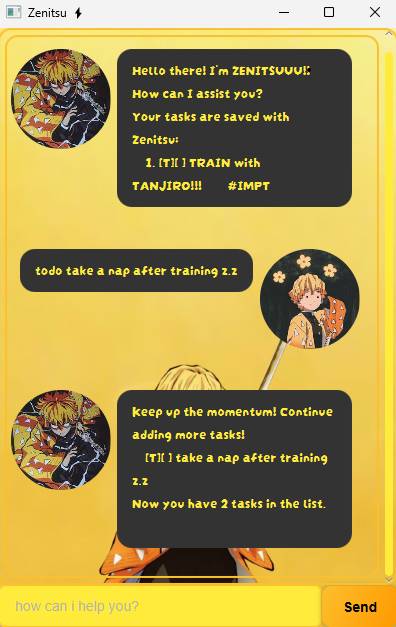
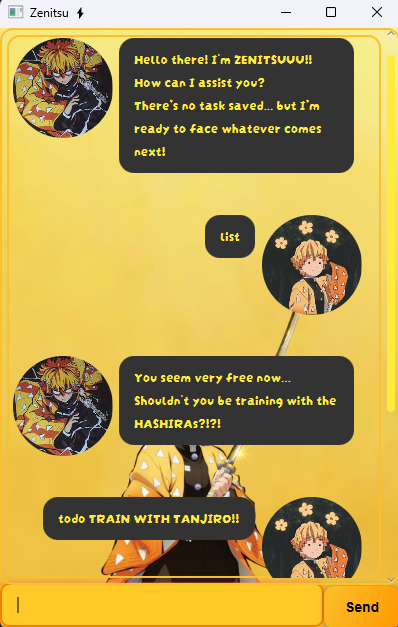
Add more personalities to bot

diff --git a/src/main/java/engulfy/ui/Ui.java b/src/main/java/engulfy/ui/Ui.java
@@ -13,7 +13,7 @@ import engulfy.task.TaskList;
 public class Ui {
     private static final String WELCOME_MSG = "Hello there! I'm ZENITSUUU!!\nHow can I assist you?";
     private static final String GOODBYE_MSG = "Awww, will Zenitsu see you again soon?\n"
-            + "DON'T GIVE UP!!!";
+            + "USE YOUR BREATH! DON'T GIVE UP!!!";
     private static final String LOAD_ERROR_MSG = "Zenitsu can't seem to load the file ;-; let's start again.";
 
     /**
@@ -24,7 +24,7 @@ public class Ui {
      */
     public String showWelcome(TaskList tasks) {
         assert tasks != null : "Task list cannot be null";
-        String taskMessage = tasks.isEmpty() ? "No saved tasks yet!" : showTaskList(tasks.getAllTasks());
+        String taskMessage = tasks.isEmpty() ? "There’s no task saved... but I’m ready to face whatever comes next!" : showTaskList(tasks.getAllTasks());
         return (WELCOME_MSG + "\n" + taskMessage).trim();
     }
 
@@ -45,7 +45,7 @@ public class Ui {
      */
     public String showTaskList(List<Task> tasks) {
         assert tasks != null : "Task list cannot be null";
-        StringBuilder sb = new StringBuilder("Your tasks are saved with Zenitsu:\n");
+        StringBuilder sb = new StringBuilder("I got them saved, so I will never forget:\n");
         for (int i = 0; i < tasks.size(); i++) {
             sb.append("    ").append(i + 1).append(". ").append(tasks.get(i)).append("\n");
         }
@@ -82,7 +82,7 @@ public class Ui {
     public String showTaskAdded(Task task, int totalTasks) {
         assert task != null : "Task cannot be null";
         assert totalTasks >= 0 : "Total tasks cannot be negative";
-        return "Keep up the momentum! Continue adding more tasks!\n"
+        return "I’ll do my best to stay organized—this task list is getting longer, but I can handle it!\n"
                 + "    " + task + "\n"
                 + String.format("Now you have %d %s in the list.%n", totalTasks, totalTasks == 1 ? "task" : "tasks");
     }
@@ -97,7 +97,7 @@ public class Ui {
     public String showTaskRemoved(Task task, int totalTasks) {
         assert task != null : "Task cannot be null";
         assert totalTasks >= 0 : "Total tasks cannot be negative";
-        return "LET ZENITSU SLASH THAT TASK AWAY FOR YOU :D\n"
+        return "Thunder Breathing, First Form: Thunderclap and Flash!\nLET ZENITSU SLASH THAT TASK AWAY FOR YOU :D\n"
                 + "    " + task + "\n"
                 + String.format("Now you have %d %s in the list.%n", totalTasks, totalTasks == 1 ? "task" : "tasks");
     }
@@ -110,7 +110,7 @@ public class Ui {
      */
     public String showTaskMarked(Task task) {
         assert task != null : "Task cannot be null";
-        return "NICEE! Keep up the good work!\n"
+        return "If You Master One, That’s Cause For Celebration!\n"
                 + "    " + task;
     }
 
@@ -122,7 +122,7 @@ public class Ui {
      */
     public String showTaskUnmarked(Task task) {
         assert task != null : "Task cannot be null";
-        return "DON'T GIVE UP! Zenitsu believes in you!\n"
+        return "DON'T GIVE UP! USE YOUR BREATH!! Zenitsu believes in you!\n"
                 + "    " + task;
     }
 }

diff --git a/src/test/java/engulfy/command/UnmarkCommandTest.java b/src/test/java/engulfy/command/UnmarkCommandTest.java
@@ -106,7 +106,7 @@ class UnmarkCommandTest {
     @Test
     void testConstructorInvalidInput() {
         EngulfyError exception = assertThrows(EngulfyError.class, () -> new UnmarkCommand("abc"));
-        assertEquals("This does not seem like a number to Engulfy :/", exception.getMessage());
+        assertEquals("This does not seem like a number to Zenitsu :/", exception.getMessage());
     }
 
     /**
@@ -123,7 +123,7 @@ class UnmarkCommandTest {
         Task unmarkedTask = taskList.getAllTasks().get(1);
         assertFalse(unmarkedTask.isDone());
 
-        String expectedOutput = "Aww, it's ok! You got this!\n"
+        String expectedOutput = "DON'T GIVE UP! USE YOUR BREATH!! Zenitsu believes in you!\n"
                 + "    " + unmarkedTask;
         String actualOutput = outContent.toString();
         assertEquals(expectedOutput, actualOutput);

diff --git a/src/test/java/engulfy/command/MarkCommandTest.java b/src/test/java/engulfy/command/MarkCommandTest.java
@@ -104,7 +104,7 @@ class MarkCommandTest {
     @Test
     void testConstructorInvalidInput() {
         EngulfyError exception = assertThrows(EngulfyError.class, () -> new MarkCommand("abc"));
-        assertEquals("This does not seem like a number to Engulfy :/", exception.getMessage());
+        assertEquals("This does not seem like a number to Zenitsu :/", exception.getMessage());
     }
 
     /**
@@ -121,7 +121,7 @@ class MarkCommandTest {
         Task markedTask = taskList.getAllTasks().get(1);
         assertTrue(markedTask.isDone());
 
-        String expectedOutput = "NICEE! Keep up the good work!\n"
+        String expectedOutput = "If You Master One, That’s Cause For Celebration!\n"
                 + "    " + markedTask;
 
         String actualOutput = outContent.toString();

diff --git a/src/main/java/engulfy/command/ListCommand.java b/src/main/java/engulfy/command/ListCommand.java
@@ -9,7 +9,7 @@ import engulfy.ui.Ui;
  * This command shows the tasks in the task list, or a message indicating that there are no tasks.
  */
 public class ListCommand implements Command {
-    private static final String NO_TASK_MSG = "You seem very free now... Start doing something productive!";
+    private static final String NO_TASK_MSG = "You seem very free now... Shouldn't you be training with the HASHIRAs?!?!";
 
     /**
      * Executes the list command by displaying all tasks in the task list.

diff --git a/src/main/java/engulfy/command/FindCommand.java b/src/main/java/engulfy/command/FindCommand.java
@@ -49,7 +49,7 @@ public class FindCommand implements Command {
             for (int i = 0; i < matchingTasks.size(); i++) {
                 output.append(i + 1).append(".").append(matchingTasks.get(i)).append("\n");
             }
-            return ("Zenitsu found you!!\n\n" + output).trim();
+            return ("To Find You, I Just Listened For The Sound Of Complete And Utter Betrayal And Followed That!!\n\n" + output).trim();
         }
     }
 

diff --git a/src/main/java/engulfy/task/Task.java b/src/main/java/engulfy/task/Task.java
@@ -90,6 +90,6 @@ public class Task {
      */
     @Override
     public String toString() {
-        return getStatusIcon() + " " + description + "    " + getTagString();
+        return getStatusIcon() + " " + description + " " + getTagString();
     }
 }

diff --git a/README.md b/README.md
@@ -1,26 +1,69 @@
-# Duke project template
+# Engulfy User Guide
 
-This is a project template for a greenfield Java project. It's named after the Java mascot _Duke_. Given below are instructions on how to use it.
+## ⚡ Introduction ⚡
+Welcome to **Engulfy**, your personal task manager chatbot with a theme revolving around Zenitsu!
 
-## Setting up in Intellij
+![Example Image](/docs/Ui.png)
 
-Prerequisites: JDK 17, update Intellij to the most recent version.
+## 🚀 Installation
+1. **Ensure Java 17 or later** is installed on your system.
+2. **Download** the latest Engulfy JAR file from the [release page](https://github.com/Engulfy/ip/releases).
+3. **Open a terminal** and navigate to the folder containing the JAR file.
+4. Run the following command to start Engulfy:
+   ```sh
+   java -jar Engulfy.jar
 
-1. Open Intellij (if you are not in the welcome screen, click `File` > `Close Project` to close the existing project first)
-1. Open the project into Intellij as follows:
-   1. Click `Open`.
-   1. Select the project directory, and click `OK`.
-   1. If there are any further prompts, accept the defaults.
-1. Configure the project to use **JDK 17** (not other versions) as explained in [here](https://www.jetbrains.com/help/idea/sdk.html#set-up-jdk).<br>
-   In the same dialog, set the **Project language level** field to the `SDK default` option.
-1. After that, locate the `src/main/java/Duke.java` file, right-click it, and choose `Run Duke.main()` (if the code editor is showing compile errors, try restarting the IDE). If the setup is correct, you should see something like the below as the output:
-   ```
-   Hello from
-    ____        _        
-   |  _ \ _   _| | _____ 
-   | | | | | | | |/ / _ \
-   | |_| | |_| |   <  __/
-   |____/ \__,_|_|\_\___|
-   ```
+## 🛠 Features
+### ✅ Add Tasks
+Engulfy supports three types of tasks:
+- **ToDo**: `todo TASK_DESCRIPTION`
+- **Deadline**: `deadline TASK_DESCRIPTION /by DATE_TIME`
+- **Event**: `event TASK_DESCRIPTION /from DATE_TIME /to DATE_TIME`
+- **To Note**:
+   - `Ensure DATE_TIME is in format of "M/d/yyyy HHmm" (default), "MMM dd yyyy, h:mm a", "d/M/yyyy HHmm" or "dd MMM yyyy, h:mm a"`
 
-**Warning:** Keep the `src\main\java` folder as the root folder for Java files (i.e., don't rename those folders or move Java files to another folder outside of this folder path), as this is the default location some tools (e.g., Gradle) expect to find Java files.
+📌 **Example:**
+```sh
+todo SWORD TRAINING!
+deadline MASTER LIGHTNING BREATHING! /by 02/20/2025 2359
+event HASHIRA TRAINING /from 01/03/2018 1400 /to 01/03/2018 1600
+```
+
+### 📋 List Tasks
+View all added tasks:
+```sh
+list
+```
+
+### ✍ Mark/Unmark Tasks
+Mark a task as completed or incomplete:
+- `To Note: Ensure TASK_NUMBER is in range of saved tasks`
+```sh
+mark TASK_NUMBER
+unmark TASK_NUMBER
+```
+
+### ❌ Delete Tasks
+Remove a specific task:
+- `To Note: Ensure TASK_NUMBER is in range of saved tasks`
+```sh
+delete TASK_NUMBER
+```
+
+### 🔍 Find Tasks
+Search for tasks containing a keyword:
+```sh
+find KEYWORD
+```
+
+### 🏷 Tag Tasks
+Add tags to tasks to categorize them:
+```sh
+tag TASK_NUMBER TAG_NAME
+```
+
+### 🚪 Exit Engulfy
+Close the chatbot:
+```sh
+bye
+```

diff --git a/docs/README.md b/docs/README.md
@@ -3,6 +3,8 @@
 ## ⚡ Introduction ⚡
 Welcome to **Engulfy**, your personal task manager chatbot with a theme revolving around Zenitsu!
 
+![Example Image](/docs/Ui.png)
+
 ## 🚀 Installation
 1. **Ensure Java 17 or later** is installed on your system.
 2. **Download** the latest Engulfy JAR file from the [release page](https://github.com/Engulfy/ip/releases).
